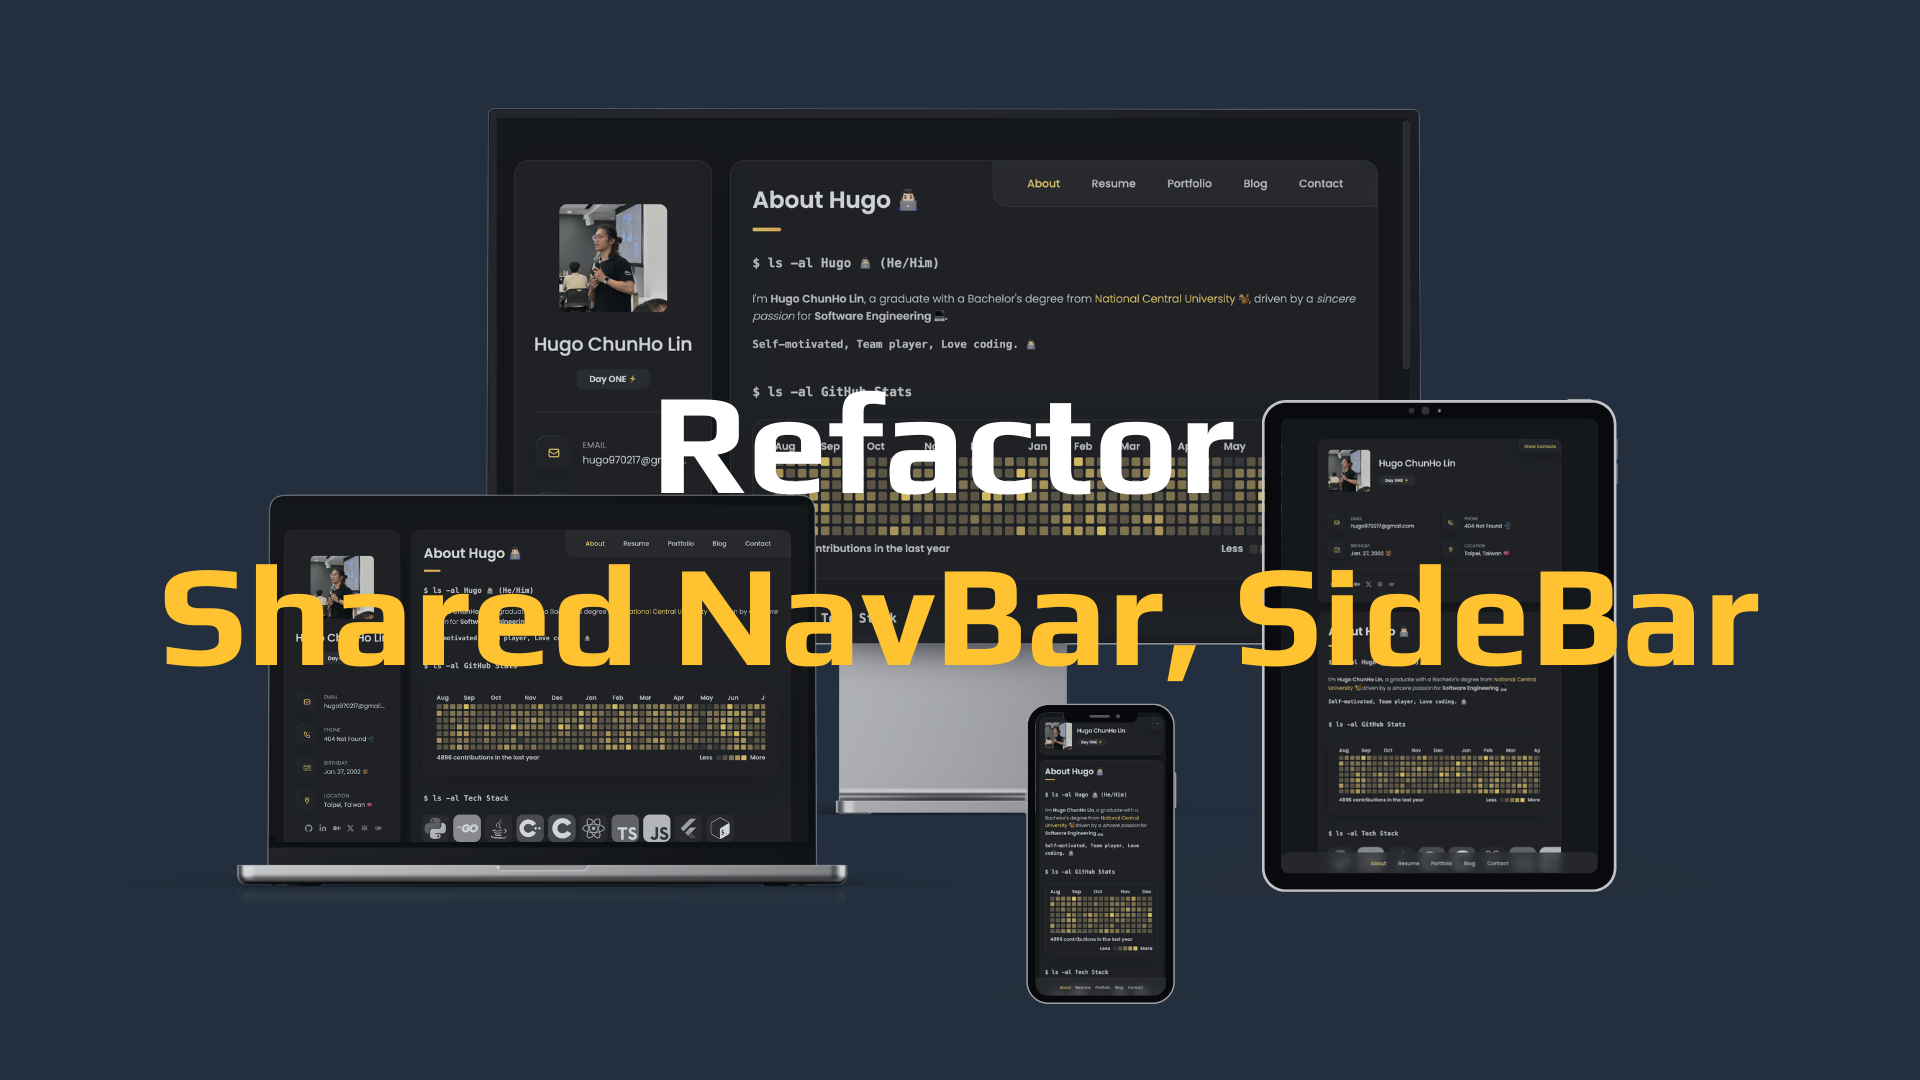
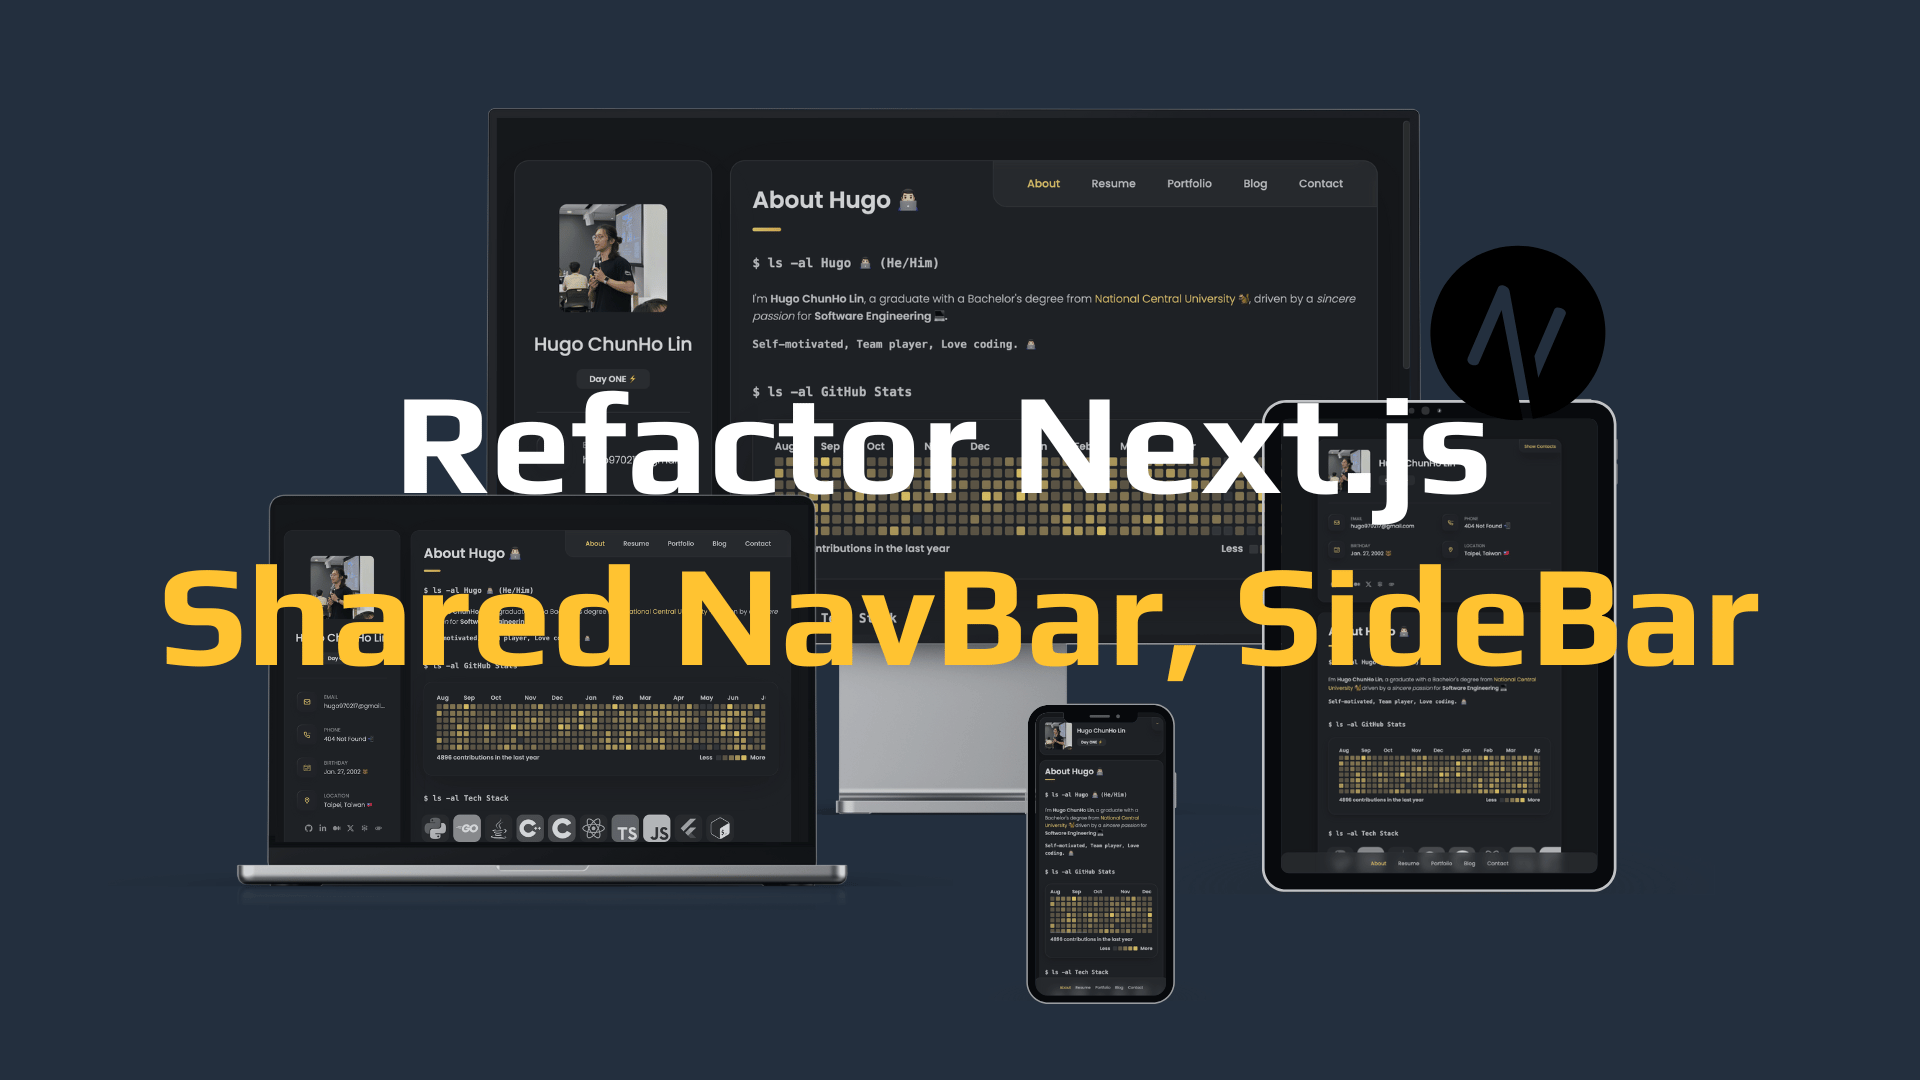
feat(post): add Improve Next.js Performance: Move Shared Components to Global Layout

Changed region(s): [[0.1875, 0.2139, 0.8438, 0.4889]]

diff --git a/apps/web/src/contents/move-shared-components-to-global-layout.md b/apps/web/src/contents/move-shared-components-to-global-layout.md
@@ -1,37 +1,49 @@
 ---
-title: 提升 Next.js 效能：把重複載入的元件放入 global layout
+title: "Improve Next.js Performance: Move Shared Components to Global Layout"
 category: Project
 publishedAt: 2024-08-20
-summary: 透過 Next.js 的 Global Layout 來減少重複載入的元件，提升網頁效能。
+summary: Through Next.js's Global Layout, reduce the redundant loading of components to improve web performance.
 tags: 
-- React
-- Typescript
-- Next.js
+  - React
+  - Typescript
+  - Next.js
+  - Software Development
+  - Software Engineering
+  - Website Development
 banner: /images/banner/move-shared-components-to-global-layout.png
-alt: 提升 Next.js 效能：把重複載入的元件放入 global layout
+alt: "Improve Next.js Performance: Move Shared Components to Global Layout"
 ---
 
-我們今天也是來分享前端工程的相關技術，畢竟目前仍然努力地為我的網站 [1chooo.com](https://1chooo.com) 增加新的功能，以及償還過去的技術債 😢，在我的網站中，每個頁面都會共用 NavBar 來導引到不同的分頁，同時也會有 SideBar 來讓大家取得我的個人資訊，不過在過去的實作中，我每個頁面的 Component 中都包含了重複的元素，也就是說我只要切換頁面，這些重複的資訊就要重新載入一次，有時候網路不穩定的時候，還會造成圖片無法加載的問題，因此我想透過這次的篇幅來介紹我做了什麼改動。
+> Through Next.js's Global Layout, reduce the redundant loading of components to improve web performance.
 
-![提升 Next.js 效能：把重複載入的元件放入 global layout](/images/banner/move-shared-components-to-global-layout.png)
+Today, I’m excited to share some front-end development techniques, as I continue working to add new features and pay off technical debt for my website 😢, [1chooo.com](https://1chooo.com). As part of my ongoing efforts, I’ve noticed that each page on my site utilizes a shared NavBar for navigation and a SideBar that provides access to my personal information. However, in my previous implementations, these components were duplicated across every page, meaning that every time a user navigated to a new page, the same information was reloaded. This redundant loading often led to issues—particularly with images failing to load during periods of poor network connectivity.
 
-因為目前挑選的是 [Next.js](https://nextjs.org/) 作為我的前端框架，並搭配 [React](https://react.dev/) 來開發頁面上的 Components，想知道為什麼選擇 [Next.js](https://nextjs.org/) 的朋友可以看過去的這篇文章 -- [讓老舊的 Create React App (CRA) 支援 TypeScript 5.x 吧！](/blog/goodbye-react-create-app)因此我觀察到了在 [Next.js](https://nextjs.org/) 的專案結構之中（以我的[專案](https://github.com/1chooo/1chooo.com)為例）：
+In this post, I’ll walk through the improvements I’ve made to address these problems, ensuring more efficient rendering and a smoother user experience.
+
+![Improve Next.js Performance: Move Shared Components to Global Layout by Hugo](/images/banner/move-shared-components-to-global-layout.png)
+
+
+Since I am currently using [Next.js](https://nextjs.org/) as my front-end framework alongside [React](https://react.dev/) to develop the page components, I’ve made some observations about the project structure within Next.js (using my own [project](https://github.com/1chooo/1chooo.com) as an example):
 
 ```ts
 ...
 ├── app/
-│   |── portfolio/
-│   |   └── page.tsx    // Portfolio
-│   |── page.tsx        // Home
+│   ├── portfolio/
+│   │   └── page.tsx    // Portfolio
+│   ├── page.tsx        // Home
 │   └── layout.tsx
 └── components/
 ```
 
-頁面的路由 (App Router) 是透過 `app/` 目錄下的檔案來定義的，每個頁面要載入哪些 components 也是藉由這些檔案來加入的，同時我們可以看到在 `app/` 目錄下有一個 `layout.tsx` 的檔案，這個檔案就是我們要放置共用元件的地方，也就是 Global Layout 的存在，有點像是過去的 `index.html` 一樣，因此這次就是我下手的地方。
+For those curious about why I chose [Next.js](https://nextjs.org/), feel free to check out one of my earlier posts—[Updating an Outdated Create React App (CRA) to Support TypeScript 5.x](/blog/goodbye-react-create-app)—where I explain my decision in greater detail. 
 
-接著我們來觀察一下我的頁面組成，以 `about` 以及 `portfolio` 頁面為例：
+In this article, I'll delve into how the project structure in Next.js enhances the efficiency of my development process.
 
-`app/page.tsx`:
+The page routing in Next.js (App Router) is defined through the files located in the `app/` directory. These files also dictate which components are loaded on each page. Additionally, you'll notice the presence of a `layout.tsx` file in the `app/` directory. This file serves as the Global Layout, where shared components—like headers or sidebars—are placed, functioning similarly to the traditional `index.html` in older web projects. This is where I began making optimizations to improve performance and reduce redundancy.
+
+Let’s take a closer look at the structure of my pages, using the `about` and `portfolio` pages as examples:
+
+**`app/page.tsx` (About Page):**
 
 ```tsx
 const About = () => {
@@ -56,11 +68,9 @@ const About = () => {
     </main>
   );
 }
-
-export default About
 ```
 
-`app/portfolio/page.tsx`:
+**`app/portfolio/page.tsx` (Portfolio Page):**
 
 ```tsx
 const Portfolio = () => {
@@ -87,14 +97,15 @@ const Portfolio = () => {
     </main>
   );
 }
-
-export default Portfolio
 ```
 
-我重複寫了兩次的 `NavBar` 以及 `SideBar`，因此我可以把 `<article>` 這個 Tag 當成我傳入 layout 的 props，這樣就可以避免重複載入的問題，同時我也可以避免掉 Copy-paste Programming 接著我們來看看我如何改動：
+In both cases, components such as `SideBar` and `NavBar` are repeated, leading to redundancy. This is precisely why I began leveraging the `layout.tsx` file to refactor and consolidate these shared components, ensuring they load only once across all pages, thereby improving the overall efficiency of my site.
 
+I had been repeating both the `NavBar` and `SideBar` components across multiple pages, which led to redundant code and unnecessary reloading. To address this, I decided to pass the `<article>` tag as a prop to the layout, avoiding repeated loading and eliminating the pitfalls of copy-paste programming. Let's take a look at how I refactored this structure:
 
-我先設計一個新的 Component -- PageContent 可以用來組裝我的頁面元素，並且可以讓我設定頁面的 document title、載入特定 css 檔案等等：
+### Step 1: Creating a New `PageContent` Component
+
+I designed a new `PageContent` component to structure the elements of each page. This component allows me to set the document title, load specific CSS files, and more:
 
 ```tsx
 import React, { useEffect } from 'react';
@@ -108,14 +119,13 @@ const PageContent: React.FC<{
   pathName?: string;
 }> = ({ documentTitle, title, children, page, pathName }) => {
 
-  
-  // Check if the page is at root and should not have a specific `data-page` value.
+  // Handle edge case where 'About' page is at the root ("/") and doesn't have "/about" path.
   const isRootPage = pathName === '/' && page === 'about';
-  
+
   if (isRootPage) {
     documentTitle = "Hugo ChunHo Lin (1chooo) | Open Source Enthusiast";
   }
-  
+
   useEffect(() => {
     document.title = documentTitle;
   }, [documentTitle]);
@@ -130,17 +140,15 @@ const PageContent: React.FC<{
     </article>
   );
 };
-
-export default PageContent;
 ```
 
-我有特別做了例外處理，那就是 `About` 就是在 Root 不會有 `/about` 的路徑，因此我特別寫了一個判斷來讓 `About` 正常顯示。
+For the `About` page, which resides at the root (`/`) without an `/about` path, I added a condition to handle this exception. This ensures that the "About" page displays correctly without any path issues.
 
-接著我們就可以把重複的元件放入 `layout.tsx` 中：
+### Step 2: Moving Repeated Components to `layout.tsx`
 
-`app/layout.tsx`:
+Next, I moved the common components like `NavBar` and `SideBar` into `layout.tsx`, where they will load once for the entire application:
 
-``` diff
+```diff
   <body>
     <Hello />
 +   <main>
@@ -153,9 +161,11 @@ export default PageContent;
   </body>
 ```
 
-另外改寫一下 `About` 以及 `Portfolio` 的頁面：
+### Step 3: Refactoring the `About` and `Portfolio` Pages
 
-`app/page.tsx`:
+With the `PageContent` component in place and shared components moved to the layout, I refactored the `About` and `Portfolio` pages to utilize this new structure:
+
+**`app/page.tsx` (About Page):**
 
 ```tsx
 const About = () => {
@@ -172,14 +182,13 @@ const About = () => {
       <GitHubStats />
       <TechStack />
       <LifeStyles />
-    </PageContent >
+    </PageContent>
   );
 }
-
-export default About
 ```
 
-app/portfolio/page.tsx
+**`app/portfolio/page.tsx` (Portfolio Page):**
+
 ```tsx
 const Portfolio = () => {
   const pathname = usePathname();
@@ -199,11 +208,11 @@ const Portfolio = () => {
     </PageContent>
   );
 }
-
-export default Portfolio;
 ```
 
-做到這邊算是大功告成啦！我們已經把 `NavBar` 以及 `SideBar` 移入 `layout.tsx` 中，並且讓傳入的 `children` 可以用我們剛剛設計好的 `PageContent` 來包裝，這樣我們進入頁面就能一次把 `NavBar` 以及 `SideBar` 載入，還不需要在每個分頁都重寫一次，如果想看更多本次改動的更多細節，可以參考以下的 [PR](https://github.com/1chooo/1chooo.com/pull/114) 喔！
+### Final Thoughts
 
-最後，感謝大家跟我一起學習前端的技術，如果有更多實作上的細節，我將會繼續分享在我的 Blog 上，也歡迎大家來我的網頁的 GitHub Repo --  [1chooo.com](https://github.com/1chooo/1chooo.com) 看更多的實作細節，謝謝大家！
+With this refactor, I've successfully moved the `NavBar` and `SideBar` into `layout.tsx`, ensuring they only load once across all pages. Additionally, the dynamic content for each page is now wrapped in the reusable `PageContent` component, reducing the need for repetitive code. If you’d like to explore the detailed changes, feel free to check out the [PR](https://github.com/1chooo/1chooo.com/pull/114).
+
+Thank you all for following along as I continue to refine my front-end skills! For more technical details on my implementation, you can check out my website’s GitHub repository—[1chooo.com](https://github.com/1chooo/1chooo.com). Stay tuned for more updates!
 
